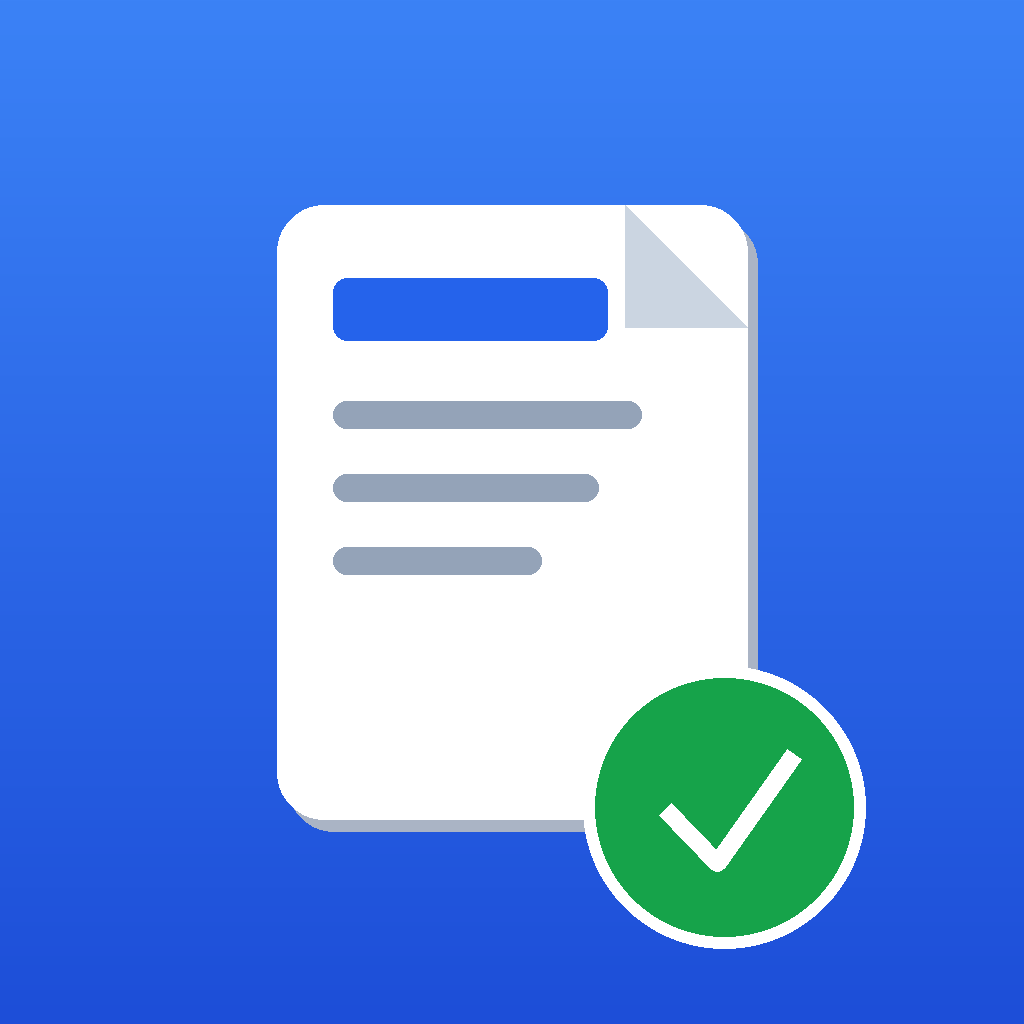
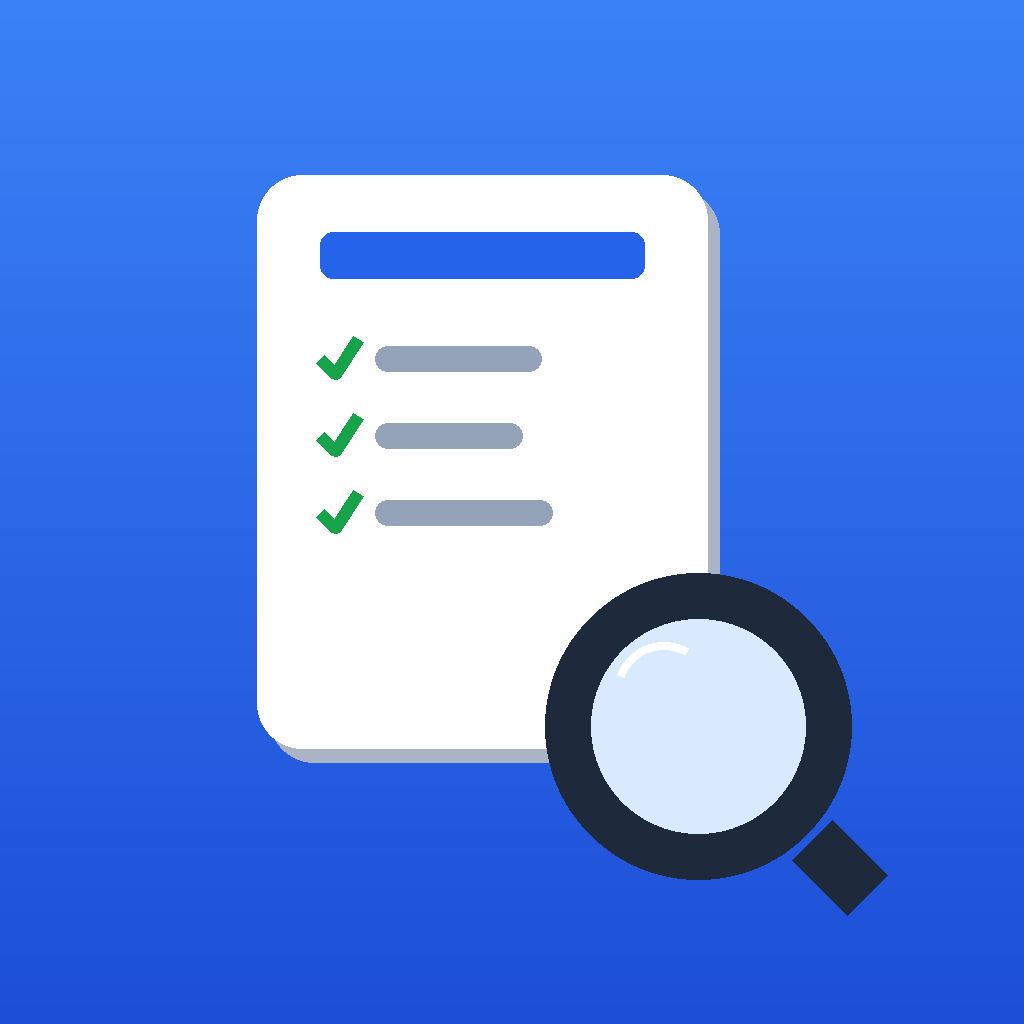
Mobile mieux adapté + nouvelle icône (loupe + checklist) — v1.13.3 / android-v1.2.0
- Affichage mobile : tableaux titre/identification empilés en une colonne,
  champs fluides, plus aucun débordement horizontal (la grille seule défile).
- Nouvelle icône évoquant un rapport d'inspection : document à coches (checklist)
  + loupe. Appliquée à Android (resources/) et au desktop (electron/icon).

Changed region(s): [[0.25, 0.1562, 0.875, 0.9375]]

diff --git a/index.html b/index.html
@@ -77,18 +77,31 @@
 
         /* ---------- AFFICHAGE MOBILE (écran, n'affecte pas l'impression/PDF) ---------- */
         @media screen and (max-width: 640px) {
-            #report-container { padding: 0.75rem !important; }
+            html, body { overflow-x: hidden; }
+            #report-container { padding: 0.6rem !important; max-width: 100% !important; }
             #app-nav { padding-left: .5rem; padding-right: .5rem; }
-            /* En-tête et pied de page : empiler les colonnes au lieu de les serrer */
-            #view-form > .flex.justify-between { flex-wrap: wrap; gap: .5rem; }
-            #view-form > .flex.justify-between > div { width: 100%; }
-            /* Tableaux larges (grille d'évaluation) : défilement horizontal au doigt */
+            #app-nav button, #app-nav .text-xs { font-size: .8rem; }
+
+            /* En-tête et pied de page : empiler les colonnes */
+            #view-form > .flex.justify-between { flex-wrap: wrap; gap: .4rem; }
+            #view-form > .flex.justify-between > div { width: 100% !important; text-align: left !important; }
+
+            /* Tableaux d'info (titre, identification) : 1 colonne empilée */
+            .resp-table, .resp-table tbody, .resp-table tr, .resp-table td { display: block !important; width: 100% !important; }
+            .resp-table td { border-left: none !important; border-right: none !important; border-top: none !important; border-bottom: 1px solid #000 !important; }
+            .resp-table tr td:last-child { border-bottom: none !important; }
+
+            /* Champs fluides : ne dépassent jamais l'écran */
+            #view-form input[type="text"], #view-form input[type="number"], #view-form select, #view-form textarea { max-width: 100% !important; }
+
+            /* Grille d'évaluation : seul le tableau défile horizontalement (la synthèse reste pleine largeur) */
             #evalForm > table { display: block; overflow-x: auto; -webkit-overflow-scrolling: touch; }
-            #evalForm > table thead, #evalForm > table tbody { display: table; width: 100%; min-width: 520px; }
-            /* Titre un peu plus compact */
-            #view-form .text-2xl { font-size: 1.25rem; }
-            /* Boutons d'action flottants : un peu plus petits */
-            .fixed.bottom-4.right-4 button { padding: 0.6rem 0.8rem; }
+            #evalForm > table > thead, #evalForm > table > tbody { display: table; width: 100%; min-width: 560px; }
+            #view-form .text-2xl { font-size: 1.3rem; line-height: 1.2; }
+
+            /* Boutons d'action flottants plus compacts */
+            .fixed.bottom-4.right-4 { gap: .35rem; bottom: .5rem; right: .5rem; }
+            .fixed.bottom-4.right-4 button { padding: 0.55rem 0.7rem; }
         }
     </style>
 </head>
@@ -182,7 +195,7 @@
             </div>
 
             <!-- TITRE + INSPECTEUR (ENCADRÉ, 2 cellules côte à côte) -->
-            <table class="w-full border-collapse border-2 border-black mb-3">
+            <table class="w-full border-collapse border-2 border-black mb-3 resp-table">
                 <tr>
                     <td class="border-2 border-black p-3 text-center align-middle font-serif" style="width:58%;">
                         <span class="text-2xl font-bold">Rapport d'évaluation<br>du travail de l'enseignant</span>
@@ -204,7 +217,7 @@
             </p>
 
             <!-- IDENTIFICATION (1 tableau, 2 cellules : enseignant | visite) -->
-            <table class="w-full text-sm border-collapse border-2 border-black mb-5">
+            <table class="w-full text-sm border-collapse border-2 border-black mb-5 resp-table">
                 <tr>
                     <td class="border-2 border-black p-2 w-1/2 align-top leading-relaxed">
                         <p class="font-bold">Nom et prénom de l'enseignant (e) :

diff --git a/README.md b/README.md
@@ -1,10 +1,10 @@
 # Rapport d'Inspection — Gestion
 
 [![Télécharger pour Windows](https://img.shields.io/badge/Télécharger-Windows%20(.exe)-1d4ed8?style=for-the-badge&logo=windows&logoColor=white)](https://github.com/haythembenjima/rapports/releases/latest/download/Rapport-Inspection-Setup.exe)
-[![Télécharger pour Android](https://img.shields.io/badge/Télécharger-Android%20(.apk)-3DDC84?style=for-the-badge&logo=android&logoColor=white)](https://github.com/haythembenjima/rapports/releases/download/android-v1.1.0/Rapport-Inspection.apk)
+[![Télécharger pour Android](https://img.shields.io/badge/Télécharger-Android%20(.apk)-3DDC84?style=for-the-badge&logo=android&logoColor=white)](https://github.com/haythembenjima/rapports/releases/download/android-v1.2.0/Rapport-Inspection.apk)
 
 > **⬇ Windows :** [**Installateur (.exe)**](https://github.com/haythembenjima/rapports/releases/latest/download/Rapport-Inspection-Setup.exe) — lien toujours à jour (dernière version).
-> **📱 Android :** [**Application (.apk)**](https://github.com/haythembenjima/rapports/releases/download/android-v1.1.0/Rapport-Inspection.apk) — installez puis autorisez les « sources inconnues ».
+> **📱 Android :** [**Application (.apk)**](https://github.com/haythembenjima/rapports/releases/download/android-v1.2.0/Rapport-Inspection.apk) — installez puis autorisez les « sources inconnues ».
 > &nbsp;·&nbsp; [Toutes les versions](https://github.com/haythembenjima/rapports/releases)
 
 Application de rédaction des rapports d'évaluation d'inspection pédagogique
